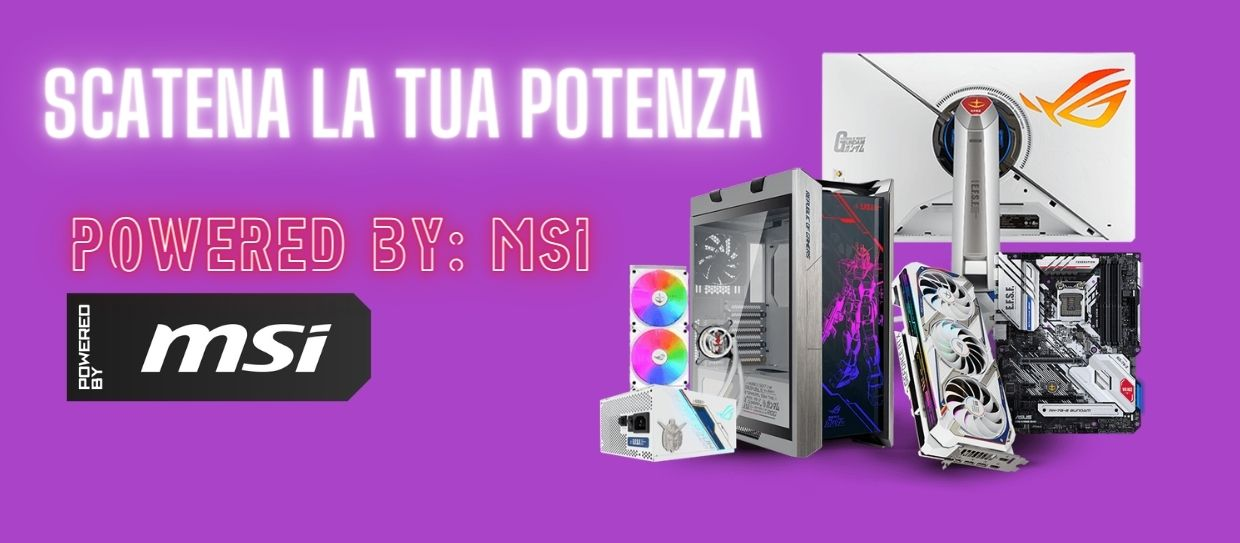
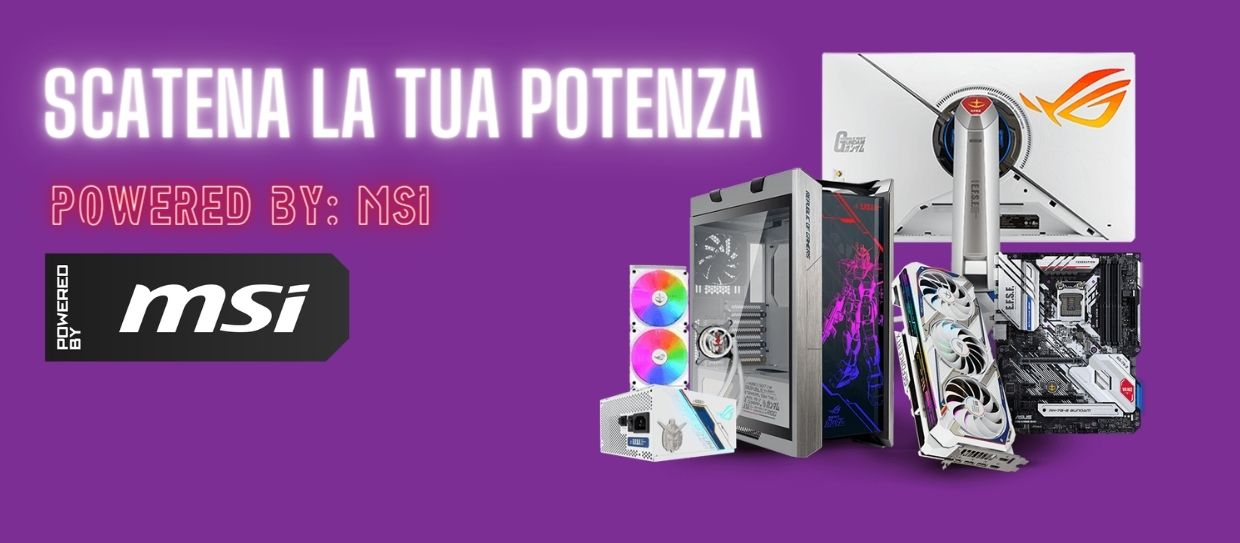
bomba

diff --git a/js/Swiper.js b/js/Swiper.js
@@ -7,7 +7,7 @@ var swiper = new Swiper(".mySwiper", {
   loop: true,
   autoplay: {
     delay: 600,
-    enabled: false,
+    enabled: true,
   },
   speed: 3000
 });

diff --git a/css/css01.css b/css/css01.css
@@ -245,7 +245,7 @@ a {
 }
 
 .viola {
-    background-color: #aa43c8;
+    background-color: #7d2e95;
 }
 
 .grigio {
